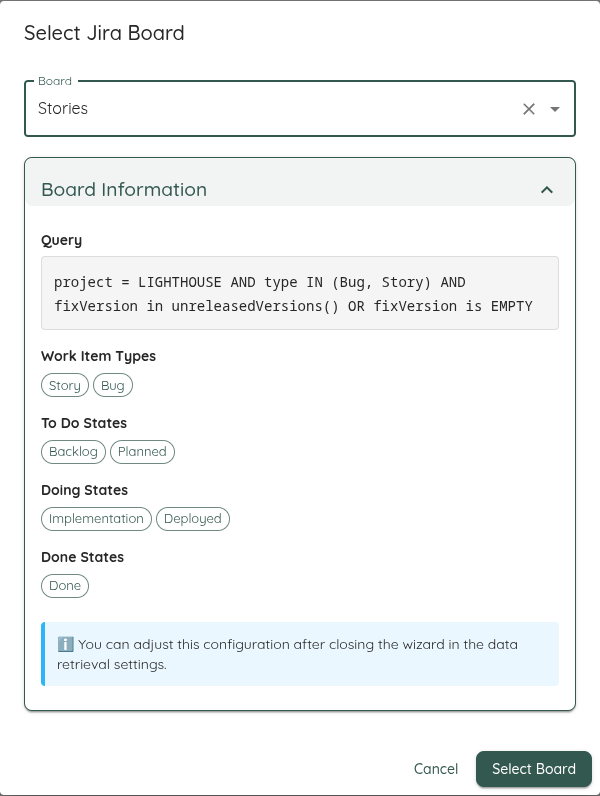
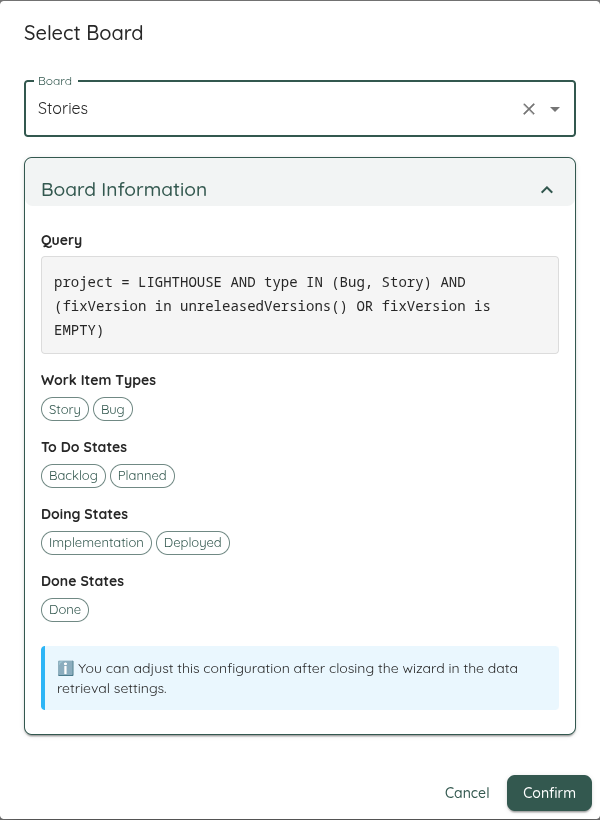
Update Screenshot creation to include ADO Wizard

diff --git a/Lighthouse.EndToEndTests/tests/specs/screenshots/Screenshots.spec.ts b/Lighthouse.EndToEndTests/tests/specs/screenshots/Screenshots.spec.ts
@@ -546,26 +546,41 @@ const workTrackingSystemConfiguration = [
 	},
 ];
 
-testWithData(
-	"Take @screenshot of Jira Wizard",
-	async ({ testData, overviewPage }) => {
-		const team = testData.teams[2];
-		const teamEditPage = await overviewPage.editTeam(team.name);
-
-		const jiraWizard = await teamEditPage.openBoardWizard("Jira");
-
-		await jiraWizard.selectBoardByName("Stories");
-
-		await expect(jiraWizard.boardInformationPanel).toBeVisible();
-
-		await takeDialogScreenshot(
-			jiraWizard.page.getByRole("dialog"),
-			"concepts/jira_wizard.png",
-			5,
-			1000,
-		);
+const wizardConfigs = [
+	{
+		name: "Jira",
+		boardName: "Stories",
+		teamIndex: 2,
 	},
-);
+	{
+		name: "Azure DevOps",
+		boardName: "Lighthouse - Epics",
+		teamIndex: 0,
+	},
+];
+
+for (const wizardConfig of wizardConfigs) {
+	testWithData(
+		`Take @screenshot of ${wizardConfig.name} Wizard`,
+		async ({ testData, overviewPage }) => {
+			const team = testData.teams[wizardConfig.teamIndex];
+			const teamEditPage = await overviewPage.editTeam(team.name);
+
+			const jiraWizard = await teamEditPage.openBoardWizard(wizardConfig.name);
+
+			await jiraWizard.selectBoardByName(wizardConfig.boardName);
+
+			await expect(jiraWizard.boardInformationPanel).toBeVisible();
+
+			await takeDialogScreenshot(
+				jiraWizard.page.getByRole("dialog"),
+				`concepts/${wizardConfig.name.replace(" ", "").toLowerCase()}_wizard.png`,
+				5,
+				1000,
+			);
+		},
+	);
+}
 
 for (const {
 	workTrackingSystemName,
